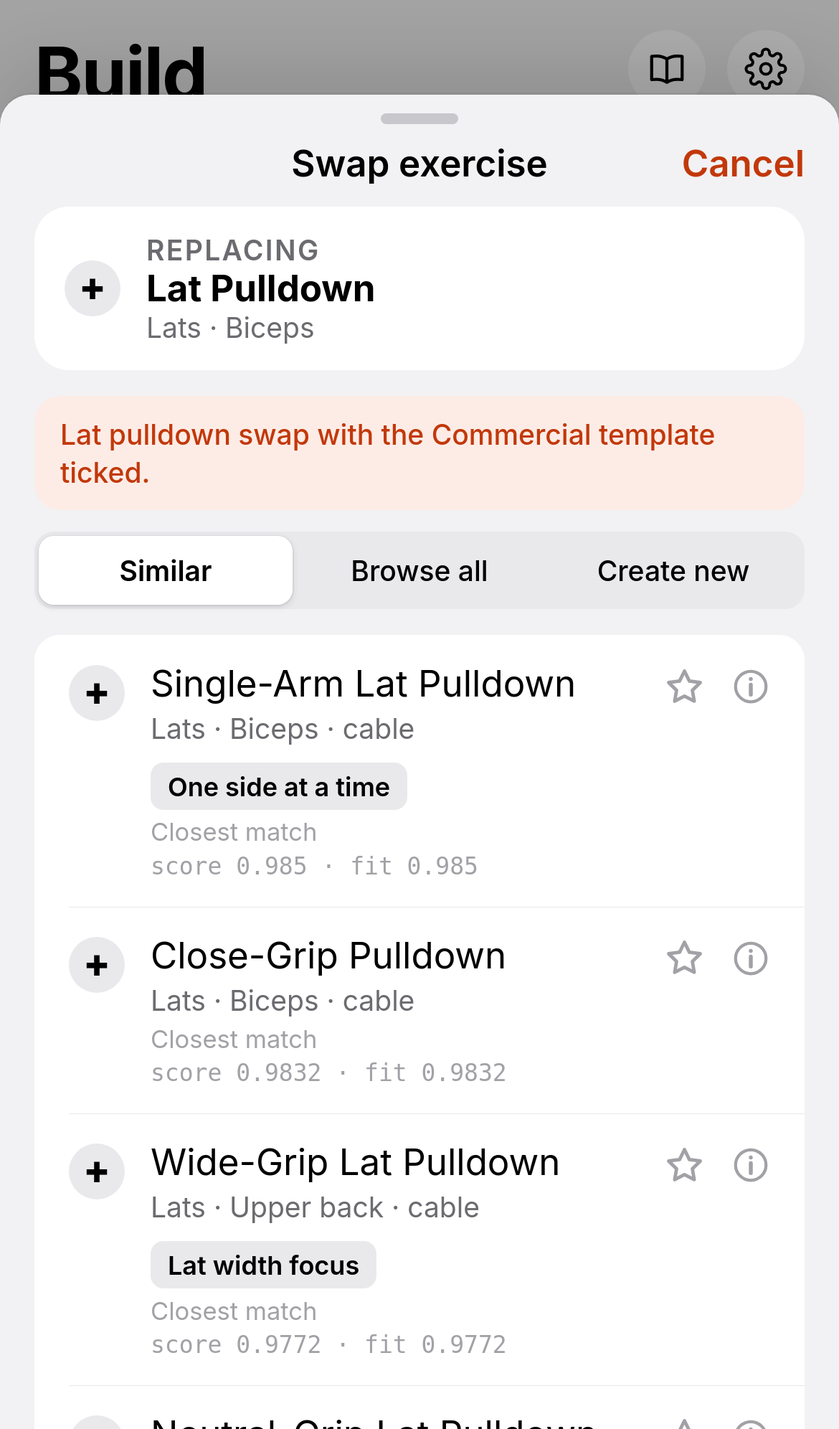
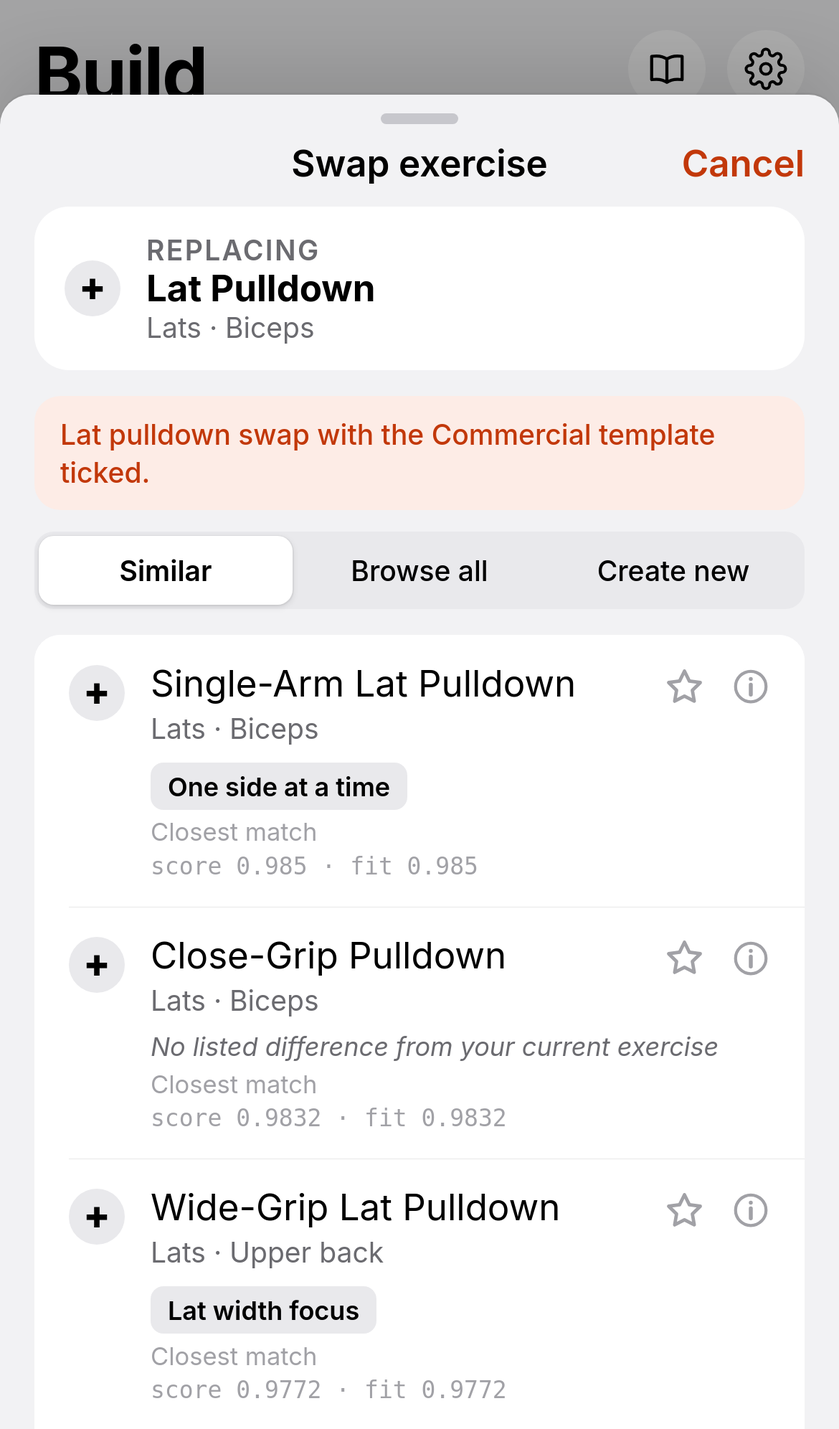
Storyboard: swap sheet without equipment words, difference tags on one wrapping row, 'No listed difference' line instead of blank tags; ARCHITECTURE.md rewritten for Expo (React Native + TypeScript), web version kept as ARCHITECTURE-web-storyboard.md. Live app untouched.

diff --git a/storyboard/sb.js b/storyboard/sb.js
@@ -451,13 +451,15 @@ function swapSheet(id,opt={}){
   // rank('swap'): hard filters (swap eligibility, same day, equipment) then the shared score; tag lines = swaptags diff_tags
   const pos=(SC.board.find(d=>d.day===SC.day)||{tiles:[]}).tiles.findIndex(t=>t.id===id);
   const alts=RD?rk('swap',null,{current:id,position:pos<0?null:pos},opt.n||6):(SWAPS[id]||[]).map(a=>({id:a.id,reasons:[],notes:[],tags:a.tags}));
-  const lines=a=>a.tags||(RD&&RD.EX[id]&&RD.EX[a.id]?SWAPDIFF.diffTags(RD.EX[id],RD.EX[a.id],RD.rules):[]);
+  // difference chips (swaptags diff_tags); when none differ, one honest line instead of a blank (SWAPDIFF.emptyLine)
+  const lines=a=>a.tags?{tags:a.tags,empty:a.tags.length?null:SWAPDIFF.NO_DIFF}:RD&&RD.EX[id]&&RD.EX[a.id]?SWAPDIFF.display(RD.EX[id],RD.EX[a.id],RD.rules):{tags:[],empty:SWAPDIFF.emptyLine(RD&&RD.rules)};
+  const diffRow=a=>{const d=lines(a);return d.tags.length?`<div class="tags">${d.tags.slice(0,3).map(x=>`<span class="tag">${x}</span>`).join('')}</div>`:`<div class="tags none"><span class="nodiff">${d.empty}</span></div>`};
   const s=sheet({title:'Swap exercise',cls:'grouped',right:`<button class="btn plain" data-x="close">Cancel</button>`,body:`
     <div class="cur card">${gl(id)}<div class="grow"><div class="eyebrow">Replacing</div><b>${exName(id)}</b><div class="t2">${exSub(id)}</div></div></div>
     ${SC.note?`<div class="scnote">${SC.note}</div>`:''}
     <div class="pad"><div class="seg"><button class="on">Similar</button><button>Browse all</button><button>Create new</button></div></div>
-    <div class="group">${alts.map(a=>`<div class="row alt" data-x="pick" data-id="${a.id}" data-score="${a.score!=null?a.score:''}" role="button" tabindex="0">${gl(a.id)}<div class="grow"><div class="t1">${exName(a.id)}</div><div class="t2">${exSub(a.id)} · ${(EX[a.id]||{}).eq}</div>
-      ${lines(a).length?`<div class="tags">${lines(a).slice(0,3).map(x=>`<span class="tag">${x}</span>`).join('')}</div>`:''}${a.reasons&&a.reasons.length?whyR(a):''}${opt.debug&&a.score!=null?`<div class="dbg num">score ${a.score} · fit ${a.fit}</div>`:''}</div><span class="altb">${starBtn(a.id)}<button class="ib-i" data-act="exinfo" data-id="${a.id}" aria-label="Learn">${I('info',1.7)}</button></span></div>`).join('')}</div>
+    <div class="group">${alts.map(a=>`<div class="row alt" data-x="pick" data-id="${a.id}" data-score="${a.score!=null?a.score:''}" role="button" tabindex="0">${gl(a.id)}<div class="grow"><div class="t1">${exName(a.id)}</div>${exSub(a.id)?`<div class="t2">${exSub(a.id)}</div>`:''}</div><span class="altb">${starBtn(a.id)}<button class="ib-i" data-act="exinfo" data-id="${a.id}" aria-label="Learn">${I('info',1.7)}</button></span>
+      <div class="altx">${diffRow(a)}${a.reasons&&a.reasons.length?whyR(a):''}${opt.debug&&a.score!=null?`<div class="dbg num">score ${a.score} · fit ${a.fit}</div>`:''}</div></div>`).join('')}</div>
     <p class="foot">Typical differences, not guarantees.</p>
     <div class="group" style="margin-top:16px"><div class="row"><div class="grow"><div class="t1">Only this workout</div><div class="t2">Keep the routine unchanged</div></div><span class="tg" data-act="tg"></span></div></div>`});
   s.el.addEventListener('click',e=>{if(e.target.closest('[data-act]'))return;const x=e.target.closest('[data-x]');if(!x)return;s.close();if(x.dataset.x==='pick')toast('Swapped')});return s;

diff --git a/storyboard/logic/swaptags.js b/storyboard/logic/swaptags.js
@@ -7,5 +7,12 @@ function diffLines(cur,alt,rules){const st=rules.swap_tags||rules,a=cur.swap,b=a
     else{const fa=a.flags.includes(i),fb=b.flags.includes(i);if(fb&&!fa)out.push([t.priority,i,t.label]);else if(fa&&!fb)out.push([t.priority,i,t.label_lost])}}
   return out.sort((x,y)=>x[0]-y[0]||(x[1]<y[1]?-1:x[1]>y[1]?1:0)||(x[2]<y[2]?-1:1))}
 function diffTags(cur,alt,rules){const st=rules.swap_tags||rules;return diffLines(cur,alt,rules).map(x=>x[2]).slice(0,st.compare.max_lines)}
-const API={diffLines,diffTags};if(typeof module!=='undefined'&&module.exports)module.exports=API;else root.SWAPDIFF=API;
+/* Swap-sheet fallback when no swap_tags attribute differs (Python parity: diffTags still returns []).
+   Single source for the wording; candidate rules.json key for Coach: swap_tags.compare.empty_line.
+   A rules.json value wins once Coach adds it. */
+const NO_DIFF='No listed difference from your current exercise';
+function emptyLine(rules){const c=((rules&&(rules.swap_tags||rules))||{}).compare||{};return typeof c.empty_line==='string'&&c.empty_line?c.empty_line:NO_DIFF}
+// What the sheet shows: {tags:[...], empty:null} or {tags:[], empty:'<fallback line>'}
+function display(cur,alt,rules){const t=cur&&alt?diffTags(cur,alt,rules):[];return {tags:t,empty:t.length?null:emptyLine(rules)}}
+const API={diffLines,diffTags,display,emptyLine,NO_DIFF};if(typeof module!=='undefined'&&module.exports)module.exports=API;else root.SWAPDIFF=API;
 })(typeof window!=='undefined'?window:this);

diff --git a/storyboard/sb.css b/storyboard/sb.css
@@ -386,6 +386,11 @@ body.full .tabs{transform:translateY(110%)}
 .vb i{position:absolute;inset:0 auto 0 0;width:var(--w);background:var(--ink);border-radius:4px}.vb i.lo{background:#a8a8ad}.vb i.hi{background:var(--accent)}
 .cur{display:flex;align-items:center;gap:12px;padding:12px 14px;margin-bottom:12px}.cur b{display:block;font-size:var(--t-head)}.cur .t2{font-size:var(--t-foot);color:var(--text-2)}
 .alt{align-items:flex-start;padding-top:12px;padding-bottom:12px}.alt>.gl{margin-top:2px}
+/* swap option: name + muscles | star + info on top, then difference chips and the why line across the full text width */
+.row.alt{display:grid;grid-template-columns:auto minmax(0,1fr) auto;column-gap:12px;row-gap:0}
+.alt>.gl{grid-column:1;grid-row:1/3}.alt>.grow{grid-column:2}.alt>.altb{grid-column:3}.alt>.altx{grid-column:2/4;min-width:0}
+.alt .tags{display:flex;flex-direction:row;flex-wrap:wrap;align-items:center;gap:5px;margin-top:8px}
+.alt .tags.none{margin-top:6px}.nodiff{font-size:12px;color:var(--text-2);font-style:italic}
 .tags{display:flex;flex-wrap:wrap;gap:5px;margin-top:8px}
 
 /* Plates */

diff --git a/storyboard/ARCHITECTURE.md b/storyboard/ARCHITECTURE.md
@@ -1,92 +1,69 @@
-# Ape-Chit rebuild of Lift Board: architecture (one page)
+# Lift Board rebuild: architecture (Expo, React Native + TypeScript, iOS and Android)
 
-The storyboard at `storyboard/` is a mock (fixed data, no real logic). This page describes the **rebuild** it previews, and notes where the storyboard already works that way.
+This is one page. The web storyboard (`storyboard/`) previews the screens, and its old web plan is kept in `ARCHITECTURE-web-storyboard.md`.
+The live web app (v29.x) stays as it is until the import below has moved Mr Dude's data across.
 
-## Layout: one bundle, no build step
+## Layers (each one depends only on the layers above it)
 ```
-index.html          viewport no-zoom, loads tokens.css, app.css, then the scripts in order below (plain <script>, no bundler)
-tokens.css          design tokens (colour, type, space, radii, motion); the only place colours and the logo path live
-logic/              pure functions, no DOM. Each sets one global (window.LB.loads, …) so node tests can call it
-  loads.js prs.js warmup.js deload.js review.js volume.js   ported UNCHANGED from the current app; diff-tested (below)
-  rank.js           ONE ranker: line-for-line port of Coach's tools/rank.py (+ the swap.py / patterns.py parts it calls).
-                    BUILT in the storyboard (storyboard/logic/rank.js). Reads every weight, goal label/short/label_note, reason
-                    string, favorite boost/margin (0.10), day-theme weight (contexts.*.weights.theme: tray/empty 0.08, swap/preset 0)
-                    and volume_bands from rules.json/targets.json/patterns.json/splits.json. Spec order: hard filters (excluded,
-                    gym equipment, same day, swap/slot eligibility) -> score -> tie-break -> 1-2 reasons. Swap, tray, empty
-                    workout and preset slots all call rank(); the "why" line is r.reasons joined, shown under each row.
-                    Parity: `node storyboard/test/rank.diff.js` = 0 mismatches on all 58 ranking-reference.json cases, neutral
-                    swap == swap.py swaps() for all 239 exercises, neutral preset == patterns.py slot_recommendations() (72).
-                    Python semantics ported exactly (round() ties-to-even on the binary value, stable tuple sorts, dict order).
-  swaptags.js       port of tools/swaptags.py diff_tags (swap-sheet lines, priority order, max swap_tags.compare.max_lines)
-components/         sheet.js (THE bottom sheet: grab handle, swipe-down close, snap-back), keypad.js (0-9 . ⌫, edits in place,
-                    no reflow), swipe.js (swipe-left delete), calendar.js, plates.js (bar picker), musclemap.js (MIT SVG paths)
-screens/            train, workout, log, build, progress, settings, learn (index, muscle, fundamental, exercise), style
-data/               loaders only: exercises.json, rules.json, targets.json, education/** are read, never written
+logic/        pure TypeScript, no React, no I/O. Ported from the current JS, one file per module:
+              rank.ts (+ swap, preset), swaptags.ts, volumeBands.ts, prs.ts, e1rm.ts, loads.ts, warmup.ts, deload.ts, review.ts
+data/         read side: Coach's JSON (exercises, rules, targets, patterns, splits, education/**), bundled read-only
+              write side: repositories over SQLite (sessions, entries, sets, prs, routines, settings, bodyweights, notes)
+store/        ONE Zustand store (slices: session, log, routines, prefs). Actions call logic/ and then data/; screens never touch SQL
+ui/           design system: tokens.ts + shared components Sheet, Keypad, Swipe, Calendar, Plates, MuscleMap, Chip, Row
+app/          thin screens (Expo Router files): layout and wiring only, no rules, no maths
 ```
-Router: hash routes (`#train`, `#workout`, `#learn-biceps`, `#learn-ex-<id>` …), one delegated click handler, one render per route.
+- **logic/** is ported 1:1, with types added and behaviour unchanged. The existing parity diffs come across as Jest tests:
+  `rank` vs `ranking-reference.json` (67 cases), neutral swap vs `swap.py` for all 239 exercises, preset vs `patterns.py`
+  (72 slots), and the PR, e1RM, loads and deload references from Coach's `gen_*_reference.py`. A port counts as done only at 0 mismatches.
+- **Coach's data** ships in the app bundle as frozen JSON, copied from `lift-board/data` (the only source) by a sync script.
+  The app never writes to it. A data update is a new app build (or an EAS Update), never an edit on the device.
+- **Store: Zustand.** One small store with no boilerplate, selectors so the active-set row re-renders alone while typing,
+  and it's easy to test outside React. Redux is heavier than this app needs, and Context re-renders too much on the workout screen.
+- **Design system.** `ui/tokens.ts` is generated from `tokens.css`, which stays the single source: Ember **#E8430C**
+  (press #C2380A, tint #FDECE6), ink and paper, danger #E5242B, volume amber/red, type 34/22/17/15/13/11, the 4-pt space grid,
+  radii 8/12/16/22 and the sheet ease. Components read tokens only. Writing a hex value inside a screen fails lint.
+  Sheet: one bottom sheet that closes on swipe-down. Keypad: digits plus backspace, edits in place with no reflow.
+  Swipe: swipe left to delete. Also Calendar, Plates (bar picker) and MuscleMap (SVG).
+- **Navigation.** Expo Router with tabs **Train · Log · Build · Progress**. Settings (gear) and Learn (book) sit in the header and open as stacks.
+  The workout, keypad and swap screens are sheets or modals over the tabs.
 
-## Design tokens (`tokens.css`)
-Black, white and one accent, **Ember #E8430C** (pressed/small text #C2380A, tint #FDECE6). Functional colours: delete red #E5242B,
-over-volume amber #F0A830 / red #D93B30 (from targets.json gradient colours). System font stack, type 34/22/17/15/13/11,
-spacing 4–32, radii 8/12/16/22, ease cubic-bezier(.32,.72,0,1), 120/240/380 ms. Logo: `--logo-icon`, `--logo-lockup` only
-(assets/logo/*-v3, copied from ape-chit-logo/out/).
+## Shared rules keys stay data-driven
+`volume_bands` (amber > max, red > max × red_factor; one function feeds both the volume panel and the body map), `swap_tags`
+(chip wording, priority, max_lines, plus a proposed `compare.empty_line`), `ranking` (weights, goal labels, reasons,
+favorite margin, day-theme) and `equipment_items` (tokens, templates; unticked equipment is a hard filter).
+No threshold, label or weight is a literal in TypeScript. Tests rewrite a key (for example red_factor 1.5) and check that the UI follows it.
 
-## Shared rules keys (single source of truth)
-- **`rules.json volume_bands`** (CoS, 2026-10-21): amber when weekly sets > max, red when > max × `red_factor` (1.25 today).
-  The **volume panel and the body map share this one key** through one function (`vStat` in the storyboard, `logic/volume.js`
-  in the rebuild). No factor is hardcoded; if the key is missing nothing turns red. Test `volumeFactorChangeFlipsPanel` rewrites
-  the factor to 1.5/1.1 and checks both surfaces follow.
-- `rules.json swap_tags` — swap-sheet wording ("Typical differences, not guarantees.").
-- Display bands for ratings (Coach, a model): main ≥ 0.75, helper 0.4–<0.75, minor 0.25–<0.4, not counted < 0.25.
+## On-device storage: SQLite (expo-sqlite)
+- One database file, `liftboard.db`. Tables: sessions, entries, sets, prs, routines, settings (key/JSON), bodyweights, notes, meta.
+- **Versioned migrations:** `data/migrations/001_init.sql`, `002_…` run in order inside one transaction and are tracked with
+  `PRAGMA user_version`. They're forward-only: never edit a shipped migration, add a new one.
+- Tests: each migration runs on a fresh database and on a copy of the previous schema with data in it. The test checks
+  that the schema matches `schema.snapshot.sql` and that no rows were lost.
 
-## Suggestions UI (ranking-spec §8b, approved by CoS)
-- Tray: segmented **Suggested** (default, `rank('tray', candidates)`) / **Library** (exercises.json order). Search and filter chips are
-  hard filters in both modes and stay on `equipment` labels. Each suggestion has a 1–2 reason line directly under it, never a popup.
-- Settings goals: multi-select up to `goal_combine.max_goals` (3) with Coach's labels and `label_note` footnotes from rules.json;
-  `goal_conflicts` show as a flag with Coach's message and evidence badge.
-- Gym profile `equipment: {token: bool}` over **rules.json `equipment_items`** (36 tokens, labels, groups, `implies`, `legacy`):
-  Settings > Gyms > Home gym shows one checkbox per token, grouped, with Coach's labels; the full map is saved on the first edit.
-  "Start from: **Home template** / **Commercial template**" (`example_profiles`) only pre-ticks boxes; the user ticks what the gym
-  actually has, and the templates' example loads (e.g. their dumbbell sets) are never copied into the user's gym.
-  rank.js `needsStatus` = rank.py `needs_status`: with no map, or an exercise without `equipment_needs`, the old `equipment` status
-  applies (neutral parity); otherwise every need must be met, `a|b` = either, a token is met if ticked, implied by a ticked broader
-  token (adjustable_bench -> flat_bench, ghd -> hyperextension_bench) or, if unset, by the loads fields via `legacy`; unknown tokens
-  keep the exercise with note `equipment_unknown`. Unavailable = hard filter in every context. Chips and labels keep using `equipment`.
-  Exercise pages show Coach's "Needs:" line (`equipment_needs.text`). Template check: Home leaves 60 of 239 exercises, Commercial 220.
-- Data freeze: the storyboard reads its own copies in `storyboard/data/` first. `sync-education.sh` copies Education only;
-  `sync-ranking-data.sh` copies rules/exercises/targets/patterns/splits/ranking-reference **once per Coach "done" post**, then rerun the diffs.
+## One-time import from the web app
+- The web app's Backup export is one JSON file (`logBackup()`, schema 2): sessions, entries, sets, prs,
+  routines, settings, bodyweights, deloads, readiness, exNotes, decimalFix. He shares the file to the app (Files or AirDrop).
+- `data/import/webBackup.ts` validates the file, runs the web `migrate()` step (ported), and writes everything in one transaction.
+- **Idempotent:** rows keep their web ids, and the file's hash is saved in `meta`. Importing the same file again changes nothing.
+- **Parity check after import:** counts of sessions, entries and sets must match the file. PRs are recomputed with `logic/prs`
+  and must equal the PRs in the file, and total volume per week must match. Any difference stops the import and shows a diff list; the database rolls back.
 
-## Education (Learn) — data-driven, no per-page code
-- Book icon in the Train/Build/Progress headers (no 5th tab). Entries: tap the muscle map, the (i) on an exercise, exercise links.
-- `education/index.json` drives the index: `status:"final"` pages render, `"planned"` show "Coming soon". All 23 pages (19 muscles,
-  4 fundamentals) are final. Every map path resolves to a page; heads (`region_ids`) are drawn either as their own path or via the
-  group path (`g:chest`, `g:triceps`, `g:calves`, as in the live map). The two back `ABDUCTOR_*` paths have no region in the live map
-  either and are drawn as non-interactive outline.
-- Citations resolve in `references.json`, then `references-exercises.json`; badges Supported / Mechanics / Model; DOI links.
-- **Exercise pages** (`#learn-ex-<id>`, Coach's exercise-pages-spec.md): `education/exercises/index.json` lists authored pages; a
-  `final` entry loads `exercises/<path>`, otherwise the **fallback is `exercises/auto/<id>.json`**, shown with its
-  "Auto-generated from the exercise library" banner. Live ratings come from exercises.json; alternatives link to their own pages.
-  All 56 preset exercises have authored pages (index all final; test `allPresetExercisesOpenAuthoredPage`); the other exercises use
-  auto pages. **Storyboard: ships Coach's static auto/*.json files as-is (no runtime generation).** **Rebuild: ports `tools/gen_exercise_autopages.py auto_page()`
-  (with exercise_pages.py, swaptags.py, swap.py) to `logic/exercise-pages.js` and generates auto pages at runtime from
-  exercises.json; Coach's auto/*.json become test fixtures only — a test generates all of them and deep-compares (0 mismatches),
-  and the auto files are no longer shipped.** Authored pages always win.
+## Testing
+- **Every change:** Jest (jest-expo) runs logic/ unit tests, the parity diffs above, store actions, migrations
+  (against node SQLite) and the import fixtures (a real exported backup, anonymised). The target is a full run in under a minute.
+- **Before a release only:** device E2E with **Maestro**. Its flows are short YAML, it drives a real iOS or Android build
+  with no app instrumentation, and it handles taps, swipes and the keypad well. Detox needs native test setup
+  and has more flake for the size of this app. Flows: log a set with the keypad (no jump, auto-fill only fills later
+  empty sets), discard, delete, swap, finish, and import.
 
-## State and storage
-localStorage, existing keys kept so nobody loses data: `liftboard.logs`, `.routines`, `.mysplits`, `.logSettings`, `.logActive`,
-`.logTimer`, `.custom`, `.exNotes`, `.bodyweights`, `.deload`, `.staged`, … New: favourites (ordered), goals, bias muscles
-(storyboard mock keys `apechit.sb.favs|goals|bias`). One `storage.js` owns reads/writes, **export/import** (single JSON file with a
-schema version) and **migration** on load: `LOG_SCHEMA=2` logs and the legacy `liftboard.v1` blob are upgraded in place, once,
-with a backup key written first.
+## Getting it on his phone
+1. **Expo Go:** scan a QR code from `npx expo start` for same-day previews (only works while no custom native modules are used).
+2. **Development build (EAS):** `eas build --profile development` gives an installable app with expo-sqlite, haptics and the file picker.
+   It still live-reloads from the dev server.
+3. **TestFlight:** `eas build --profile preview` then `eas submit`, for his day-to-day app. On Android, use the Play Console internal
+   testing track with the same profile.
+Releases: run Jest (must be green), then the Maestro flows on both platforms, then the build. Data-only changes can go out as an EAS Update.
 
-## Tests
-- `tests/run-all.sh` keeps running; the parity diffs (`*diff.js`, e1rm, logger, swapc …) call the logic globals instead of the old
-  page, so ported modules must match the current app byte-for-byte on the fuzz boards. `mutate.sh` mutants must still be caught.
-- New reference diffs: `rank.js` vs ranking-reference.json + swap.py/patterns.py neutral (done, 0 mismatches), `swaptags.js` vs tools/swaptags.py,
-  (rebuild) exercise-pages.js vs the auto/ fixtures (deep-compare all, 0 mismatches).
-- UI tests are rewritten against the new screens (Playwright WebKit, iPhone 13), like `storyboard/test/sb.test.js`.
-- Coach's validators stay the gate for data: `tools/check_education.py`, `tools/check_exercise_pages.py` must print PASS.
-
-## Clean-up
-Delete the ~67 versioned / `pre-*` / `bak-*` / `*.vNN.*` files in the app root (and the old vNN test files); git history in
-lift-board-site keeps them. sw.js cache list shrinks to the bundle.
+## Not in scope yet
+No app code has been written. Accounts, cloud sync and Apple Health/Google Fit wait for a separate decision.

diff --git a/storyboard/ARCHITECTURE-web-storyboard.md b/storyboard/ARCHITECTURE-web-storyboard.md
@@ -1,0 +1,92 @@
+# Ape-Chit rebuild of Lift Board: architecture (one page)
+
+The storyboard at `storyboard/` is a mock (fixed data, no real logic). This page describes the **rebuild** it previews, and notes where the storyboard already works that way.
+
+## Layout: one bundle, no build step
+```
+index.html          viewport no-zoom, loads tokens.css, app.css, then the scripts in order below (plain <script>, no bundler)
+tokens.css          design tokens (colour, type, space, radii, motion); the only place colours and the logo path live
+logic/              pure functions, no DOM. Each sets one global (window.LB.loads, …) so node tests can call it
+  loads.js prs.js warmup.js deload.js review.js volume.js   ported UNCHANGED from the current app; diff-tested (below)
+  rank.js           ONE ranker: line-for-line port of Coach's tools/rank.py (+ the swap.py / patterns.py parts it calls).
+                    BUILT in the storyboard (storyboard/logic/rank.js). Reads every weight, goal label/short/label_note, reason
+                    string, favorite boost/margin (0.10), day-theme weight (contexts.*.weights.theme: tray/empty 0.08, swap/preset 0)
+                    and volume_bands from rules.json/targets.json/patterns.json/splits.json. Spec order: hard filters (excluded,
+                    gym equipment, same day, swap/slot eligibility) -> score -> tie-break -> 1-2 reasons. Swap, tray, empty
+                    workout and preset slots all call rank(); the "why" line is r.reasons joined, shown under each row.
+                    Parity: `node storyboard/test/rank.diff.js` = 0 mismatches on all 58 ranking-reference.json cases, neutral
+                    swap == swap.py swaps() for all 239 exercises, neutral preset == patterns.py slot_recommendations() (72).
+                    Python semantics ported exactly (round() ties-to-even on the binary value, stable tuple sorts, dict order).
+  swaptags.js       port of tools/swaptags.py diff_tags (swap-sheet lines, priority order, max swap_tags.compare.max_lines)
+components/         sheet.js (THE bottom sheet: grab handle, swipe-down close, snap-back), keypad.js (0-9 . ⌫, edits in place,
+                    no reflow), swipe.js (swipe-left delete), calendar.js, plates.js (bar picker), musclemap.js (MIT SVG paths)
+screens/            train, workout, log, build, progress, settings, learn (index, muscle, fundamental, exercise), style
+data/               loaders only: exercises.json, rules.json, targets.json, education/** are read, never written
+```
+Router: hash routes (`#train`, `#workout`, `#learn-biceps`, `#learn-ex-<id>` …), one delegated click handler, one render per route.
+
+## Design tokens (`tokens.css`)
+Black, white and one accent, **Ember #E8430C** (pressed/small text #C2380A, tint #FDECE6). Functional colours: delete red #E5242B,
+over-volume amber #F0A830 / red #D93B30 (from targets.json gradient colours). System font stack, type 34/22/17/15/13/11,
+spacing 4–32, radii 8/12/16/22, ease cubic-bezier(.32,.72,0,1), 120/240/380 ms. Logo: `--logo-icon`, `--logo-lockup` only
+(assets/logo/*-v3, copied from ape-chit-logo/out/).
+
+## Shared rules keys (single source of truth)
+- **`rules.json volume_bands`** (CoS, 2026-10-21): amber when weekly sets > max, red when > max × `red_factor` (1.25 today).
+  The **volume panel and the body map share this one key** through one function (`vStat` in the storyboard, `logic/volume.js`
+  in the rebuild). No factor is hardcoded; if the key is missing nothing turns red. Test `volumeFactorChangeFlipsPanel` rewrites
+  the factor to 1.5/1.1 and checks both surfaces follow.
+- `rules.json swap_tags` — swap-sheet wording ("Typical differences, not guarantees.").
+- Display bands for ratings (Coach, a model): main ≥ 0.75, helper 0.4–<0.75, minor 0.25–<0.4, not counted < 0.25.
+
+## Suggestions UI (ranking-spec §8b, approved by CoS)
+- Tray: segmented **Suggested** (default, `rank('tray', candidates)`) / **Library** (exercises.json order). Search and filter chips are
+  hard filters in both modes and stay on `equipment` labels. Each suggestion has a 1–2 reason line directly under it, never a popup.
+- Settings goals: multi-select up to `goal_combine.max_goals` (3) with Coach's labels and `label_note` footnotes from rules.json;
+  `goal_conflicts` show as a flag with Coach's message and evidence badge.
+- Gym profile `equipment: {token: bool}` over **rules.json `equipment_items`** (36 tokens, labels, groups, `implies`, `legacy`):
+  Settings > Gyms > Home gym shows one checkbox per token, grouped, with Coach's labels; the full map is saved on the first edit.
+  "Start from: **Home template** / **Commercial template**" (`example_profiles`) only pre-ticks boxes; the user ticks what the gym
+  actually has, and the templates' example loads (e.g. their dumbbell sets) are never copied into the user's gym.
+  rank.js `needsStatus` = rank.py `needs_status`: with no map, or an exercise without `equipment_needs`, the old `equipment` status
+  applies (neutral parity); otherwise every need must be met, `a|b` = either, a token is met if ticked, implied by a ticked broader
+  token (adjustable_bench -> flat_bench, ghd -> hyperextension_bench) or, if unset, by the loads fields via `legacy`; unknown tokens
+  keep the exercise with note `equipment_unknown`. Unavailable = hard filter in every context. Chips and labels keep using `equipment`.
+  Exercise pages show Coach's "Needs:" line (`equipment_needs.text`). Template check: Home leaves 60 of 239 exercises, Commercial 220.
+- Data freeze: the storyboard reads its own copies in `storyboard/data/` first. `sync-education.sh` copies Education only;
+  `sync-ranking-data.sh` copies rules/exercises/targets/patterns/splits/ranking-reference **once per Coach "done" post**, then rerun the diffs.
+
+## Education (Learn) — data-driven, no per-page code
+- Book icon in the Train/Build/Progress headers (no 5th tab). Entries: tap the muscle map, the (i) on an exercise, exercise links.
+- `education/index.json` drives the index: `status:"final"` pages render, `"planned"` show "Coming soon". All 23 pages (19 muscles,
+  4 fundamentals) are final. Every map path resolves to a page; heads (`region_ids`) are drawn either as their own path or via the
+  group path (`g:chest`, `g:triceps`, `g:calves`, as in the live map). The two back `ABDUCTOR_*` paths have no region in the live map
+  either and are drawn as non-interactive outline.
+- Citations resolve in `references.json`, then `references-exercises.json`; badges Supported / Mechanics / Model; DOI links.
+- **Exercise pages** (`#learn-ex-<id>`, Coach's exercise-pages-spec.md): `education/exercises/index.json` lists authored pages; a
+  `final` entry loads `exercises/<path>`, otherwise the **fallback is `exercises/auto/<id>.json`**, shown with its
+  "Auto-generated from the exercise library" banner. Live ratings come from exercises.json; alternatives link to their own pages.
+  All 56 preset exercises have authored pages (index all final; test `allPresetExercisesOpenAuthoredPage`); the other exercises use
+  auto pages. **Storyboard: ships Coach's static auto/*.json files as-is (no runtime generation).** **Rebuild: ports `tools/gen_exercise_autopages.py auto_page()`
+  (with exercise_pages.py, swaptags.py, swap.py) to `logic/exercise-pages.js` and generates auto pages at runtime from
+  exercises.json; Coach's auto/*.json become test fixtures only — a test generates all of them and deep-compares (0 mismatches),
+  and the auto files are no longer shipped.** Authored pages always win.
+
+## State and storage
+localStorage, existing keys kept so nobody loses data: `liftboard.logs`, `.routines`, `.mysplits`, `.logSettings`, `.logActive`,
+`.logTimer`, `.custom`, `.exNotes`, `.bodyweights`, `.deload`, `.staged`, … New: favourites (ordered), goals, bias muscles
+(storyboard mock keys `apechit.sb.favs|goals|bias`). One `storage.js` owns reads/writes, **export/import** (single JSON file with a
+schema version) and **migration** on load: `LOG_SCHEMA=2` logs and the legacy `liftboard.v1` blob are upgraded in place, once,
+with a backup key written first.
+
+## Tests
+- `tests/run-all.sh` keeps running; the parity diffs (`*diff.js`, e1rm, logger, swapc …) call the logic globals instead of the old
+  page, so ported modules must match the current app byte-for-byte on the fuzz boards. `mutate.sh` mutants must still be caught.
+- New reference diffs: `rank.js` vs ranking-reference.json + swap.py/patterns.py neutral (done, 0 mismatches), `swaptags.js` vs tools/swaptags.py,
+  (rebuild) exercise-pages.js vs the auto/ fixtures (deep-compare all, 0 mismatches).
+- UI tests are rewritten against the new screens (Playwright WebKit, iPhone 13), like `storyboard/test/sb.test.js`.
+- Coach's validators stay the gate for data: `tools/check_education.py`, `tools/check_exercise_pages.py` must print PASS.
+
+## Clean-up
+Delete the ~67 versioned / `pre-*` / `bak-*` / `*.vNN.*` files in the app root (and the old vNN test files); git history in
+lift-board-site keeps them. sw.js cache list shrinks to the bundle.
